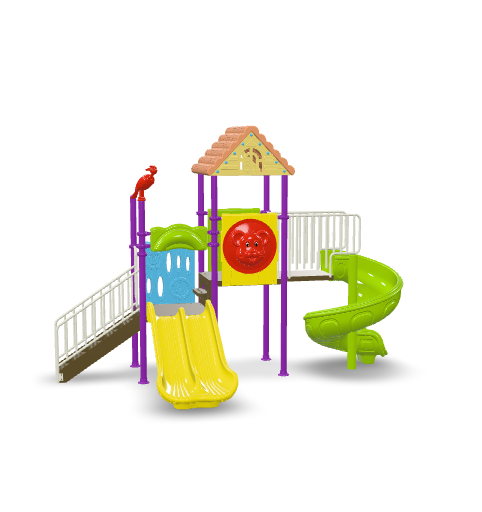
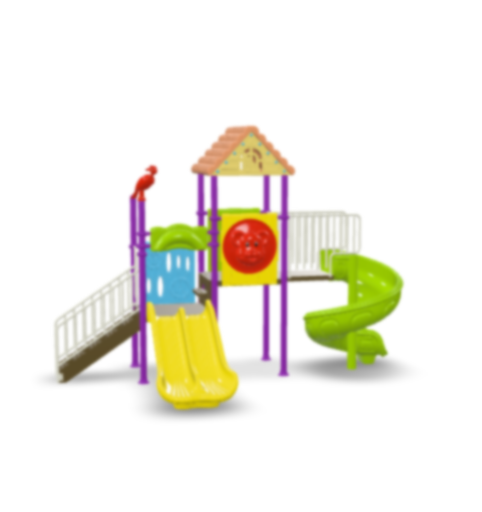
Poster load

Changed region(s): [[0.1245, 0.2188, 0.8402, 0.8125], [0.1245, 0.5938, 0.1867, 0.625]]

diff --git a/styles.css b/styles.css
@@ -184,34 +184,7 @@ button {
 }
 
 
-.viewer__poster {
-  width: 100%;
-  height: 100%;
 
-  display: grid;
-  place-items: center;
-
-  background: #fff;
-}
-
-
-.viewer__poster-surface {
-  width: 80%;
-  height: 50%;
-
-  border-radius: 50%;
-
-  filter: blur(24px);
-
-  background:
-    radial-gradient(
-      circle at 50% 50%,
-      rgba(0, 0, 0, 0.2),
-      transparent 65%
-    );
-
-  transform: translateY(28%);
-}
 
 
 /* =========================================================

diff --git a/index.html b/index.html
@@ -93,13 +93,7 @@
               Ver en tu espacio
             </button>
 
-            <div
-              slot="poster"
-              class="viewer__poster"
-              aria-hidden="true"
-            >
-              <div class="viewer__poster-surface"></div>
-            </div>
+           
 
           </model-viewer>
 
